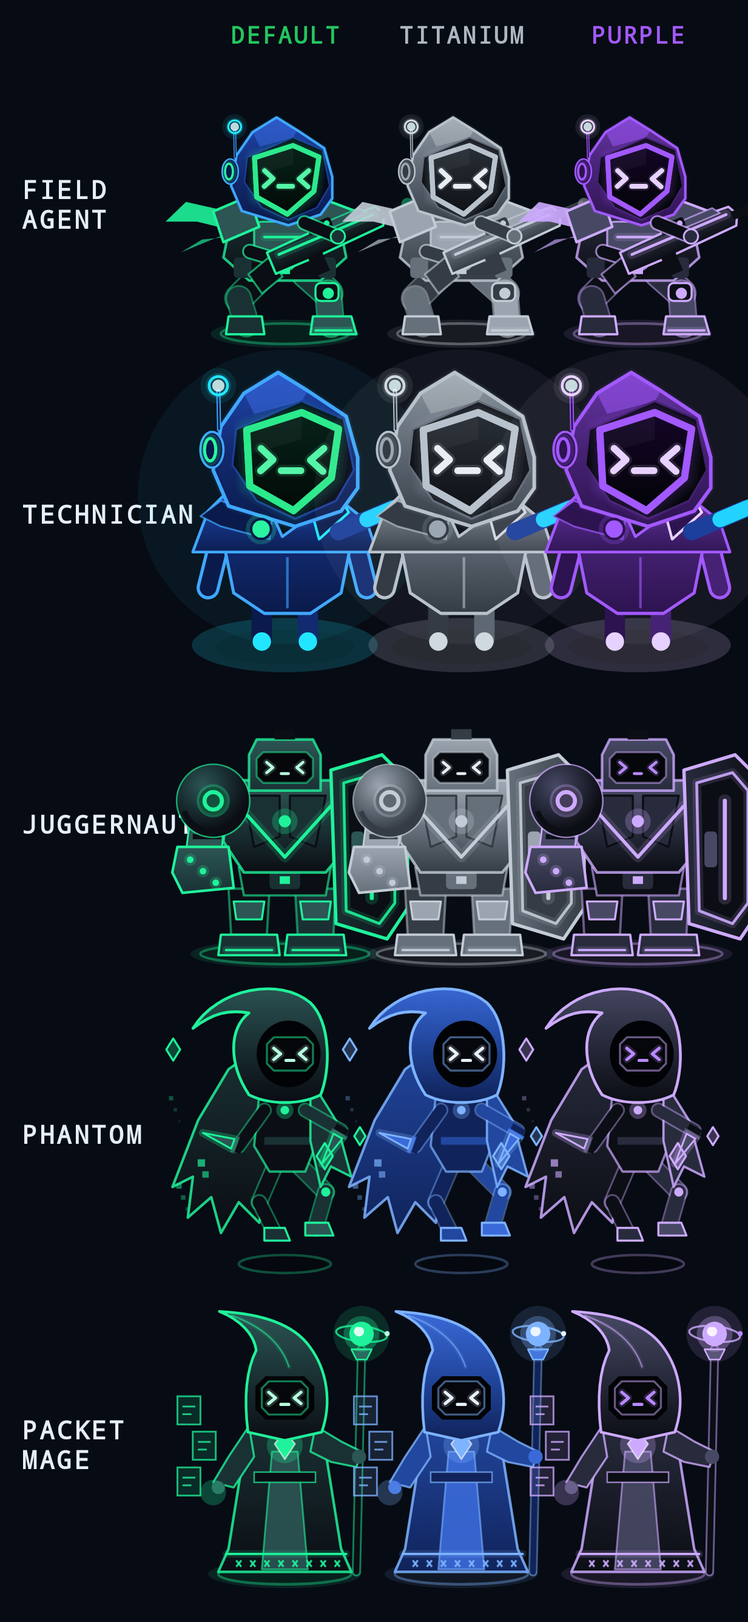
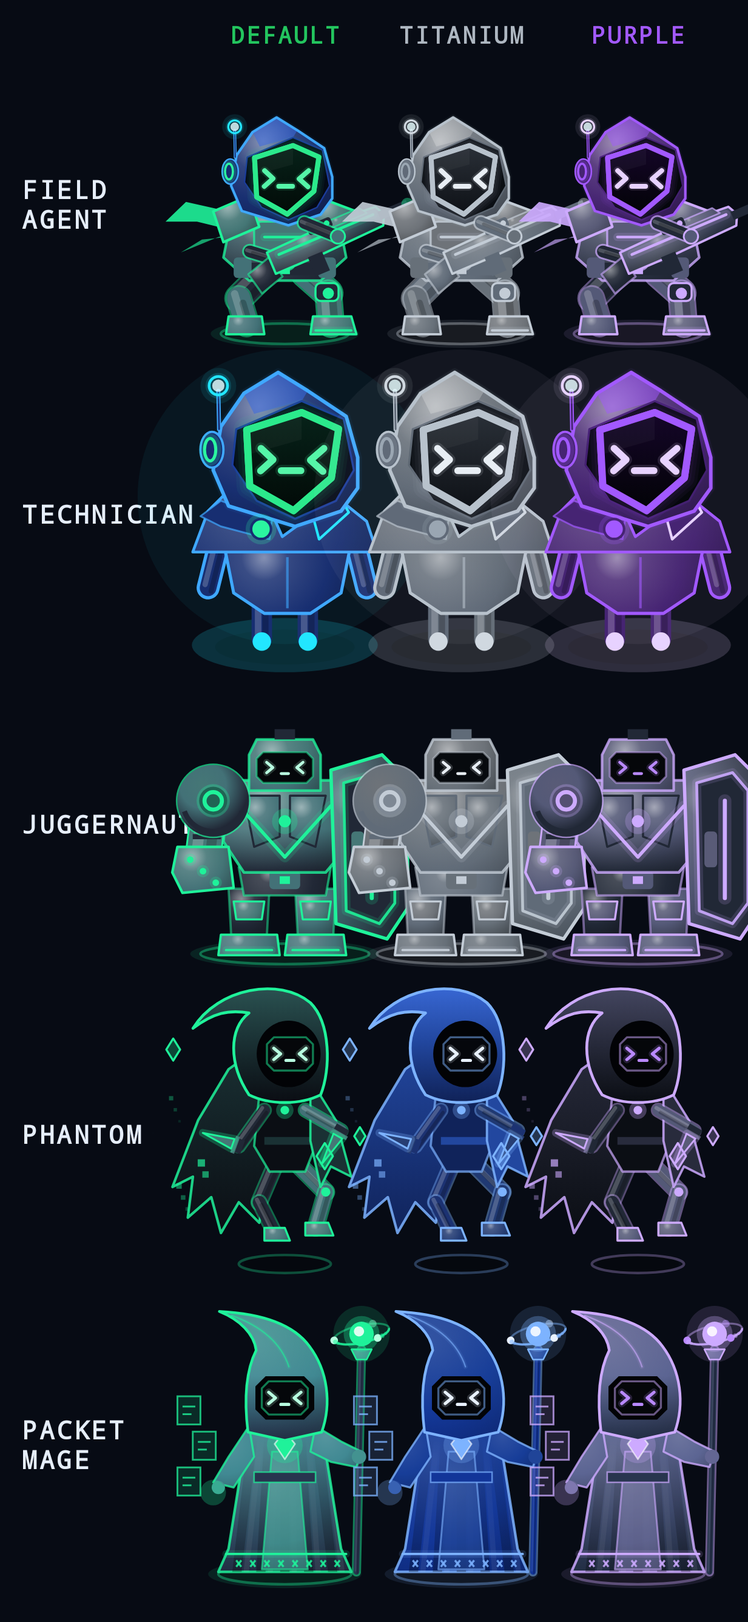
0.44.0: operator redesign in game (pets' shading on the real figures)
- FigureShade: lifted plate colours, rounded light + highlight per panel, limb highlights.
- Packet Mage robe matte with folds; Phantom hood and cape keep the original look.
- Applied to every class, skin and creator option, the Technician hero and the Field Agent helmet.

Claude-Session: https://claude.ai/code/session_01J4fYSi9rfQR62SLnfyrDCN

diff --git a/app/src/main/java/com/cyberoperative/game/ui/game/ClassFigures.kt b/app/src/main/java/com/cyberoperative/game/ui/game/ClassFigures.kt
@@ -20,6 +20,10 @@ import com.cyberoperative.game.data.OperativeSkins
 import com.cyberoperative.game.ui.common.HeroPalette
 import com.cyberoperative.game.ui.common.OperativeMark
 import com.cyberoperative.game.ui.common.drawHeroHelmet
+import com.cyberoperative.game.ui.common.FigureShade
+import com.cyberoperative.game.ui.common.FigureShade.folds
+import com.cyberoperative.game.ui.common.FigureShade.overlay
+import com.cyberoperative.game.ui.common.FigureShade.tube
 import kotlin.math.abs
 import kotlin.math.atan2
 import kotlin.math.cos
@@ -43,13 +47,25 @@ internal object ClassFigures {
     class Look(
         val plateLight: Color, val plateMid: Color, val plateDark: Color,
         val trim: Color, val face: Color, val visor: Color, val hero: HeroPalette
-    )
+    ) {
+        /** The 0.44.0 redesign's richer plate tones ([FigureShade.lift]); trim, face and visor unchanged. */
+        fun lifted(matte: Boolean = false) = Look(
+            FigureShade.lift(plateLight, matte), FigureShade.lift(plateMid, matte), FigureShade.lift(plateDark, matte),
+            trim, face, visor, hero
+        )
+    }
+
+    /** The Packet Mage's robe is cloth (owner, 0.44.0): matte light, no highlight. */
+    private var matte = false
 
     private fun mix(a: Color, b: Color, t: Float) =
         Color(a.red + (b.red - a.red) * t, a.green + (b.green - a.green) * t, a.blue + (b.blue - a.blue) * t, 1f)
 
     /** [cobaltTitanium]: PHANTOM and PACKET MAGE wear TITANIUM as cobalt blue (owner, 2026-10-11). */
-    fun look(skin: OperativeSkin, time: Float, cobaltTitanium: Boolean = false): Look {
+    fun look(skin: OperativeSkin, time: Float, cobaltTitanium: Boolean = false): Look = rawLook(skin, time, cobaltTitanium).lifted(matte)
+
+    /** The original flat colours (the Phantom's hood and cape keep them, owner 0.44.0). */
+    fun rawLook(skin: OperativeSkin, time: Float, cobaltTitanium: Boolean = false): Look {
         val c = OperativeMark.colors(skin, time)
         if (skin.id == OperativeSkins.TITANIUM.id && cobaltTitanium) {
             return Look(
@@ -183,10 +199,23 @@ internal object ClassFigures {
 
     private fun DrawScope.fillStroke(p: Path, fill: Color, edge: Color, w: Float = 1f) {
         drawPath(p, fill)
+        overlay(p, matte)
         drawPath(p, edge, style = Stroke(w, join = StrokeJoin.Round))
     }
 
     private fun DrawScope.fillStroke(p: Path, fill: Brush, edge: Color, w: Float = 1f) {
+        drawPath(p, fill)
+        overlay(p, matte)
+        drawPath(p, edge, style = Stroke(w, join = StrokeJoin.Round))
+    }
+
+    /** No shading: the Phantom's hood and cape as they were. */
+    private fun DrawScope.flatStroke(p: Path, fill: Brush, edge: Color, w: Float = 1f) {
+        drawPath(p, fill)
+        drawPath(p, edge, style = Stroke(w, join = StrokeJoin.Round))
+    }
+
+    private fun DrawScope.flatStroke(p: Path, fill: Color, edge: Color, w: Float = 1f) {
         drawPath(p, fill)
         drawPath(p, edge, style = Stroke(w, join = StrokeJoin.Round))
     }
@@ -205,6 +234,7 @@ internal object ClassFigures {
     private fun DrawScope.limb(a: Offset, b: Offset, w: Float, c: Color, edge: Color) {
         drawLine(edge, a, b, w + 1.4f, StrokeCap.Round)
         drawLine(c, a, b, w, StrokeCap.Round)
+        tube(a, b, w, matte)
     }
 
     /** Black octagon visor with the >_< face. */
@@ -395,6 +425,7 @@ internal object ClassFigures {
     fun DrawScope.phantom(skin: OperativeSkin, x: Float, foot: Float, u: Float, facing: Float, moving: Boolean, time: Float, alpha: Float) {
         val dir = if (cos(facing) < 0f) -1f else 1f
         val l = look(skin, time, cobaltTitanium = true)
+        val l0 = rawLook(skin, time, cobaltTitanium = true)
         val pulse = 0.8f + 0.2f * sin(time * 2.2f)
         val hover = 5f + sin(time * 2.6f) * 1.6f
         place(x, foot, u, dir, alpha) {
@@ -405,7 +436,7 @@ internal object ClassFigures {
                 // Back of the cloak: a big tattered sweep trailing behind.
                 val back = poly(44f, 36f, 30f, 46f, 16f - flow, 66f, 6f - flow, 92f, 14f - flow, 88f, 12f - flow, 104f, 22f - flow * 0.6f, 96f,
                     26f - flow * 0.5f, 110f, 34f, 98f, 42f, 106f, 46f, 88f, 64f, 52f)
-                fillStroke(back, Brush.verticalGradient(listOf(l.plateMid, l.plateDark), startY = 36f, endY = 110f), l.trim.copy(alpha = 0.85f), 1f)
+                flatStroke(back, Brush.verticalGradient(listOf(l0.plateMid, l0.plateDark), startY = 36f, endY = 110f), l.trim.copy(alpha = 0.85f), 1f)
                 // Dissolving pixels off the trailing edge.
                 for (i in 0 until 9) {
                     val ph = (time * 0.45f + i * 0.137f) % 1f
@@ -423,12 +454,12 @@ internal object ClassFigures {
                 drawCircle(l.trim, 1.8f, Offset(68f, 94f))
                 fillStroke(poly(60f, 106f, 69f, 106f, 71f, 111f, 60f, 111f), l.plateLight, l.trim, 0.8f)
                 // Torso: a fitted dark suit with a glowing clasp.
-                fillStroke(poly(42f, 56f, 62f, 56f, 64f, 76f, 60f, 86f, 46f, 86f, 40f, 76f), l.plateDark, l.trim.copy(alpha = 0.7f), 0.9f)
-                drawLine(l.plateMid, Offset(44f, 74f), Offset(62f, 74f), 3f)
+                flatStroke(poly(42f, 56f, 62f, 56f, 64f, 76f, 60f, 86f, 46f, 86f, 40f, 76f), l0.plateDark, l.trim.copy(alpha = 0.7f), 0.9f)
+                drawLine(l0.plateMid, Offset(44f, 74f), Offset(62f, 74f), 3f)
                 drawCircle(l.trim.copy(alpha = 0.35f * pulse), 3.4f, Offset(52f, 62f))
                 drawCircle(l.trim, 1.7f, Offset(52f, 62f))
                 // Front cloak panel over the shoulder.
-                fillStroke(poly(62f, 50f, 72f, 66f, 78f, 88f, 70f, 84f, 66f, 92f, 62f, 74f), l.plateMid, l.trim.copy(alpha = 0.85f), 0.9f)
+                flatStroke(poly(62f, 50f, 72f, 66f, 78f, 88f, 70f, 84f, 66f, 92f, 62f, 74f), l0.plateMid, l.trim.copy(alpha = 0.85f), 0.9f)
                 // Daggers: one low behind, one forward.
                 limb(Offset(44f, 62f), Offset(34f, 76f), 4.5f, l.plateDark, l.trim.copy(alpha = 0.4f))
                 dagger(34f, 76f, 200f, l, pulse)
@@ -443,7 +474,7 @@ internal object ClassFigures {
                 path.cubicTo(70f, 28f, 70f, 46f, 66f, 56f)
                 path.cubicTo(58f, 60f, 46f, 60f, 38f, 56f)
                 path.close()
-                fillStroke(path, Brush.verticalGradient(listOf(l.plateLight, l.plateMid, l.plateDark), startY = 12f, endY = 58f), l.trim, 1.1f)
+                flatStroke(path, Brush.verticalGradient(listOf(l0.plateLight, l0.plateMid, l0.plateDark), startY = 12f, endY = 58f), l.trim, 1.1f)
                 drawOval(Color(0xFF020306), Offset(41f, 27f), Size(25f, 26f))
                 visorFace(54f, 40f, 18f, 13f, l, pulse)
             }
@@ -479,6 +510,11 @@ internal object ClassFigures {
         val dir = if (cos(facing) < 0f) -1f else 1f
         val walk = if (moving) sin(time * 10f) else 0f
         val bob = if (moving) abs(sin(time * 10f)) * 1.2f else sin(time * 1.8f) * 0.5f
+        matte = true
+        try { mageBody(skin, x, foot, u, facing, moving, time, alpha, dir, walk, bob) } finally { matte = false }
+    }
+
+    private fun DrawScope.mageBody(skin: OperativeSkin, x: Float, foot: Float, u: Float, facing: Float, moving: Boolean, time: Float, alpha: Float, dir: Float, walk: Float, bob: Float) {
         val l = look(skin, time, cobaltTitanium = true)
         val pulse = 0.8f + 0.2f * sin(time * 2.2f)
         place(x, foot, u, dir, alpha) {
@@ -497,6 +533,7 @@ internal object ClassFigures {
                 // Robe: long, flared, with a lighter front panel.
                 val robe = poly(38f, 58f, 66f, 58f, 74f, 108f, 78f, 117f, 26f + sway, 117f, 30f + sway, 108f)
                 fillStroke(robe, Brush.verticalGradient(listOf(l.plateMid, l.plateDark), startY = 58f, endY = 117f), l.trim.copy(alpha = 0.85f), 1f)
+                folds(poly(38f, 58f, 66f, 58f, 74f, 108f, 78f, 117f, 26f + sway, 117f, 30f + sway, 108f), 64f, 117f)
                 fillStroke(poly(47f, 70f, 57f, 70f, 61f, 116f, 43f + sway * 0.5f, 116f), l.plateLight.copy(alpha = 0.9f), l.trim.copy(alpha = 0.6f), 0.7f)
                 // Hem band of glowing runes.
                 neon(Offset(29f + sway, 110f), Offset(76f, 110f), l.trim, 0.9f, pulse)

diff --git a/app/src/main/java/com/cyberoperative/game/ui/common/FigureShade.kt b/app/src/main/java/com/cyberoperative/game/ui/common/FigureShade.kt
@@ -1,0 +1,82 @@
+package com.cyberoperative.game.ui.common
+
+import androidx.compose.ui.geometry.Offset
+import androidx.compose.ui.graphics.Brush
+import androidx.compose.ui.graphics.Color
+import androidx.compose.ui.graphics.Path
+import androidx.compose.ui.graphics.StrokeCap
+import androidx.compose.ui.graphics.drawscope.DrawScope
+import androidx.compose.ui.graphics.drawscope.clipPath
+import kotlin.math.max
+import kotlin.math.min
+
+/**
+ * The operator redesign (owner, 0.44.0: "more closely trace the original operator design then
+ * add in the nice shading and color"; approved from docs/operators_concept/v2_*.png).
+ *
+ * The figures keep their exact shapes; on top:
+ *  - [lift]: every plate colour becomes a richer, slightly muted tone of itself (dark armour a
+ *    deep tint, coloured panels a mid-tone), like tools/operators/shade_operators.py;
+ *  - [overlay]: each panel is lit as a rounded volume from the top left, with a soft highlight;
+ *  - [matte] (the Packet Mage's robe): cloth, so softer light, no highlight, folds.
+ * Neon trim, faces and visors are untouched.
+ */
+object FigureShade {
+    /** Off restores the old flat look (tests / comparisons). */
+    @Volatile var enabled = true
+
+    fun lift(c: Color, matte: Boolean = false): Color {
+        if (!enabled) return c
+        val v = max(c.red, max(c.green, c.blue))
+        if (v < 0.005f) return c
+        val target = if (v < 0.12f) (if (matte) 0.3f else 0.22f) else (if (matte) 0.56f else 0.48f)
+        val k = target / v
+        val r = c.red * k; val g = c.green * k; val b = c.blue * k
+        val grey = (r + g + b) / 3f
+        val s = if (matte) 1.15f else 0.85f
+        fun ch(x: Float) = (grey + (x - grey) * s).coerceIn(0f, 1f)
+        return Color(ch(r), ch(g), ch(b), c.alpha)
+    }
+
+    /** Rounded light and shade over a panel already filled along [p] (in the panel's own space). */
+    fun DrawScope.overlay(p: Path, matte: Boolean = false) {
+        if (!enabled) return
+        val b = p.getBounds()
+        if (b.width <= 0.5f || b.height <= 0.5f) return
+        val c = Offset(b.left + b.width * 0.3f, b.top + b.height * 0.25f)
+        val r = max(b.width, b.height) * 1.05f
+        drawPath(p, SafeBrush.radialGradient(
+            listOf(Color.White.copy(alpha = if (matte) 0.1f else 0.2f), Color.Transparent, Color.Black.copy(alpha = if (matte) 0.32f else 0.48f)), c, r))
+        if (!matte) clipPath(p) {
+            val hc = Offset(b.left + b.width * 0.32f, b.top + b.height * 0.22f)
+            val hr = min(b.width, b.height) * 0.32f
+            drawCircle(SafeBrush.radialGradient(listOf(Color.White.copy(alpha = 0.34f), Color.Transparent), hc, hr), hr, hc)
+        }
+    }
+
+    /** A soft highlight along a round limb from [a] to [b] of width [w]. */
+    fun DrawScope.tube(a: Offset, b: Offset, w: Float, matte: Boolean = false) {
+        if (!enabled) return
+        val o = Offset(-w * 0.18f, -w * 0.2f)
+        drawLine(Color.White.copy(alpha = if (matte) 0.08f else 0.2f), a + o, b + o, w * 0.32f, StrokeCap.Round)
+        drawLine(Color.Black.copy(alpha = 0.22f), a - o, b - o, w * 0.3f, StrokeCap.Round)
+    }
+
+    /** Soft vertical cloth folds inside [p], deepening toward its bottom ([top]..[bottom] in y). */
+    fun DrawScope.folds(p: Path, top: Float, bottom: Float, count: Int = 5) {
+        if (!enabled) return
+        val b = p.getBounds()
+        clipPath(p) {
+            for (i in 0 until count) {
+                val t = (i + 0.5f) / count
+                val x0 = b.left + b.width * (0.2f + 0.6f * t)
+                val x1 = b.left + b.width * (0.05f + 0.9f * t)
+                drawLine(Brush.verticalGradient(listOf(Color.Transparent, Color.Black.copy(alpha = 0.28f)), startY = top, endY = bottom),
+                    Offset(x0, top), Offset(x1, bottom), b.width * 0.07f, StrokeCap.Round)
+                val xl0 = x0 + b.width * 0.06f; val xl1 = x1 + b.width * 0.07f
+                drawLine(Brush.verticalGradient(listOf(Color.Transparent, Color.White.copy(alpha = 0.07f)), startY = top, endY = bottom),
+                    Offset(xl0, top), Offset(xl1, bottom), b.width * 0.04f, StrokeCap.Round)
+            }
+        }
+    }
+}

diff --git a/app/src/main/java/com/cyberoperative/game/ui/common/OperativeEmblem.kt b/app/src/main/java/com/cyberoperative/game/ui/common/OperativeEmblem.kt
@@ -230,6 +230,7 @@ private fun DrawScope.drawHeroShield(p: HeroPalette, face: HeroFace, time: Float
 private fun DrawScope.drawHeroHead(p: HeroPalette, face: HeroFace, time: Float, pulse: Float) {
     glowStroke(hood, p.outline, 0.9f, pulse * 0.7f, layers = 3)
     drawPath(hood, Brush.verticalGradient(listOf(p.hoodTop, p.hoodMid, p.hoodBottom), startY = 11f, endY = 74f))
+    with(FigureShade) { overlay(hood) }
     drawPath(hoodFacet, p.facet)
     drawPath(hood, p.outline, style = Stroke(1.4f, join = StrokeJoin.Round))
     drawPath(hoodOpening, p.opening)
@@ -253,7 +254,7 @@ private fun DrawScope.drawHeroHeadset(p: HeroPalette, time: Float, pulse: Float)
 
 /** The hero's hood, face shield and headset alone (FIELD AGENT helmet), emblem units. */
 fun DrawScope.drawHeroHelmet(palette: HeroPalette, time: Float) {
-    val p = palette.at(time)
+    val p = palette.at(time).shaded()
     val pulse = 0.8f + 0.2f * sin(time * 2.2f)
     drawHeroHead(p, HeroFace.ICON, time, pulse)
     drawHeroHeadset(p, time, pulse)
@@ -267,24 +268,36 @@ private val heroCloak = path(28f, 78f, 78f, 78f, 74f, 98f, 62f, 106f, 44f, 106f,
  * The traced hero standing, in emblem units: foot line at y = 118, centre x = 52.
  * [walk] −1..1 swings the legs. Callers scale/translate it into the world.
  */
+/** The 0.44.0 redesign's richer hood tones on the figure (the menu emblem keeps the flat ones). */
+private fun HeroPalette.shaded(): HeroPalette =
+    if (!FigureShade.enabled) this else copy(hoodTop = FigureShade.lift(hoodTop), hoodMid = FigureShade.lift(hoodMid), hoodBottom = FigureShade.lift(hoodBottom))
+
 fun DrawScope.drawHeroFigure(palette: HeroPalette, face: HeroFace, time: Float, walk: Float) {
-    val p = palette.at(time)
+    val p = palette.at(time).shaded()
     val pulse = 0.8f + 0.2f * sin(time * 2.2f)
     // Legs and boots.
     drawLine(p.hoodBottom, Offset(43f, 102f), Offset(43f - walk * 5f, 116f), 8f, StrokeCap.Round)
     drawLine(p.hoodMid, Offset(61f, 102f), Offset(61f + walk * 5f, 116f), 8f, StrokeCap.Round)
+    with(FigureShade) {
+        tube(Offset(43f, 102f), Offset(43f - walk * 5f, 116f), 8f)
+        tube(Offset(61f, 102f), Offset(61f + walk * 5f, 116f), 8f)
+    }
     drawCircle(p.glow, 3.6f, Offset(43f - walk * 5f, 117f))
     drawCircle(p.glow, 3.6f, Offset(61f + walk * 5f, 117f))
     // Sleeves, then the robe-like cloak.
     drawLine(p.outline, Offset(27f, 76f), Offset(22f, 96f), 9f, StrokeCap.Round)
     drawLine(p.hoodBottom, Offset(27f, 76f), Offset(22f, 96f), 6.5f, StrokeCap.Round)
+    with(FigureShade) { tube(Offset(27f, 76f), Offset(22f, 96f), 6.5f) }
     drawLine(p.outline, Offset(79f, 76f), Offset(84f, 96f), 9f, StrokeCap.Round)
     drawLine(p.hoodMid, Offset(79f, 76f), Offset(84f, 96f), 6.5f, StrokeCap.Round)
+    with(FigureShade) { tube(Offset(79f, 76f), Offset(84f, 96f), 6.5f) }
     drawPath(heroCloak, Brush.verticalGradient(listOf(p.hoodMid, p.hoodBottom), startY = 78f, endY = 106f))
+    with(FigureShade) { overlay(heroCloak) }
     drawPath(heroCloak, p.outline, style = Stroke(1.2f, join = StrokeJoin.Round))
     drawLine(p.outline.copy(alpha = 0.6f), Offset(53f, 84f), Offset(53f, 104f), 1f)
     // Shoulders, strap, collar tab and button (from the icon).
     drawPath(heroShoulders, Brush.verticalGradient(listOf(p.hoodTop, p.hoodBottom), startY = 60f, endY = 84f))
+    with(FigureShade) { overlay(heroShoulders) }
     drawPath(heroShoulders, p.outline, style = Stroke(1.1f, join = StrokeJoin.Round))
     drawPath(strap, p.hoodBottom)
     drawPath(strap, p.outline.copy(alpha = 0.7f), style = Stroke(0.7f, join = StrokeJoin.Round))

diff --git a/app/src/test/java/com/cyberoperative/game/OperatorRawRenders.kt b/app/src/test/java/com/cyberoperative/game/OperatorRawRenders.kt
@@ -29,6 +29,8 @@ import java.io.File
 class OperatorRawRenders {
     private val out = File(System.getProperty("cyberop.previewDir") ?: "build/screens", "../operators_concept/raw")
 
+    private var dir = out
+
     private fun render(name: String, style: BodyStyle, skin: com.cyberoperative.game.data.OperativeSkin, look: CharacterLook? = null) {
         val px = 480
         val bmp = Bitmap.createBitmap(px, px, Bitmap.Config.ARGB_8888)
@@ -37,12 +39,22 @@ class OperatorRawRenders {
             val u = px / 80f * 0.92f
             with(OperativeFigures) { drawFigure(style, skin, px / 2f, px * 0.9f, u, -0.4f, false, 0f, look = look) }
         }
-        out.mkdirs()
-        File(out, "$name.png").outputStream().use { bmp.compress(Bitmap.CompressFormat.PNG, 100, it) }
+        dir.mkdirs()
+        File(dir, "$name.png").outputStream().use { bmp.compress(Bitmap.CompressFormat.PNG, 100, it) }
     }
 
     @Test fun raw() {
         assumeTrue(System.getProperty("cyberop.renderPreviews") == "true")
+        // raw/: the flat originals (input for tools/operators/shade_operators.py); ingame/: the shipped look.
+        for (shaded in listOf(false, true)) {
+            com.cyberoperative.game.ui.common.FigureShade.enabled = shaded
+            dir = if (shaded) File(out.parentFile, "ingame") else out
+            renderAll()
+        }
+        com.cyberoperative.game.ui.common.FigureShade.enabled = true
+    }
+
+    private fun renderAll() {
         val styles = listOf("agent" to BodyStyle.AGENT, "technician" to BodyStyle.NEON, "juggernaut" to BodyStyle.MECH, "phantom" to BodyStyle.RUNNER, "mage" to BodyStyle.MAGE)
         val skins = listOf("default" to OperativeSkins.DEFAULT, "titanium" to OperativeSkins.TITANIUM, "purple" to OperativeSkins.PURPLE, "gold" to OperativeSkins.GOLD) +
             OperativeSkins.all.filter { it.id in setOf("red_hat", "ids", "blue_hat") }.map { it.id to it }

diff --git a/README.md b/README.md
@@ -16,7 +16,7 @@ Play **co-op** with a friend (friend codes, invites, live two-player runs; see `
 
 ## Project status
 
-`0.43.1` — Technician without the small blaster; operator redesign concept; `0.43.0` instant hatch with € too (highest OP level × ◇ price × 100); `0.42.0` INSTANT HATCH for ◇ (4 × ⌈rarity × minutes ÷ 6⌉); `0.41.0` 500 animated ENCRYPTED pets in 14 colourways (orbiting orbs, gears, rings, propellers…); `0.40.0` 500 new GLITCHED…ENCRYPTED pets with their own eggs; `0.39.1` tougher NORMAL past level 100 (HARD rises with it), HARD Idle Runs (no GLITCHED/ENCRYPTED from idle); `0.39.0` GLITCHED LEGENDARY and ENCRYPTED gear + chips, FORGED…ABYSSAL chips (22 new chips: shoot while moving, heal per hit, auto/full-heal potions, ×2 damage…), Golden+ gear +30%, easier HARD past World 2 with 2 chips a room, bosses drop 3 HP potions, pet abilities, hatch notification; `0.38.0` COMPANIONS: eggs (drops + ◇ store), incubator with real-time hatching that ignores clock changes, Inferno Stones (−15% each, up to −90%), 1,005 pets that follow and fight; `0.37.6` 3 × 1 Idle Run widget; `0.37.5` five new NEON tracks on any level (never on bosses, never altered); `0.37.4` Idle Runs pay 40% € (XP stays 50%) and 20% less gear; `0.37.3` Idle Runs keep only EPIC and better gear; `0.37.2` Idle Runs last about twice as long again; `0.37.1` easier Idle Runs (they run about twice as long); `0.37.0` IDLE RUNS: your operator fights on with the game closed (50% € and XP), with a 2 × 3 Android home-screen widget and a notification when it falls; Boss Expansion bosses get moving parts (mesh rigs); `0.36.4` co-op € fully separate (your kills, your bags, your own payouts; trade to share); `0.36.3` one € total in co-op too; TRADE only shows when usable; short numbers (398k, 3.7m) when they don't fit; `0.36.2` the classic bosses get moving parts too (mesh rigs); `0.36.1` INFERNO bosses get real moving parts (deformable mesh rigs); `0.36.0` INFERNO bosses redrawn from the owner's pack paintings with animation rigs; recorded INFERNO drop sounds; `0.35.1` each INFERNO boss has its own colour; `0.35.0` sell backpack items; co-op TRADE; 15 INFERNO-only bosses (Packs Alpha/Beta/Gamma); Shadow Step knives, smarter Firestorm, wall-piercing Arcane Nova; signature perks on Legendary+ gear; `0.34.0` INFERNO levels 1–500 (curve A, level stepper); one Data Vault shared by every character (main-menu DATA VAULT); ABYSSAL in ~1 shop in 100; `0.33.0` four INFERNO equipment rarities (Forged, Voltaic, Celestial, Abyssal) with their own art, animated cards, auras and base × INFERNO level drop odds; `0.32.0` € carries over between runs; 4 equipment pieces (PURPLE+) in the shop; INFERNO soundtrack; `0.31.0` co-op shared XP and smoother partners; PC exit button, 2× HUD, big ability bar, keybinds in pause; `0.30.5` XP bar reads OC Lv after level 60; `0.30.4` fixed a fake left EXIT door; Circuit Hydra loses 10% HP per head destroyed; `0.30.3` white XP bar in the HUD; rooms follow the screen orientation; `0.30.2` level XP ×10 (1–60 is 29.2M XP; saves keep their level); `0.30.1` fixed the keyboard closing on the character name and the Packet Mage face parts; `0.30.0` Data Vault update phase 2: gear loot (the owner's art, 8 rarities, beams + sheen), CHARACTER / GEAR / DATA VAULT screens with drag-to-equip, character creator and named characters, in-game INVENTORY; `0.29.0` INFERNO I–X difficulties with a hell look; `0.28.0` Data Vault update phase 1: OP Lv 1–60 + Overclock, Diablo armor, no Firewall, € wipe; `0.27.0` world server: MOVE TO NEXT WORLD (co-op 1/2 ready); `0.26.3` fix: no way on to the next world after the shop; `0.26.2` slim Android landscape HUD; `0.26.1` PC direct-IP co-op (no Steam needed); `0.26.0` co-op shop (a shop each, in and out together); `0.25.9` no HP/Firewall regen over time, MAP corner kept clear of touch buttons; `0.25.8` compact shop window; `0.25.7` room slide follows the door direction; `0.25.6` ALL COLOUR SKINS pack ◇1400; `0.25.5` skins renamed by colour; `0.25.4` fixed the crash on START; crash reporter; PURPLE/GLITCHED campaign skins, GOLD and NEON (◇1000) skins, PROXY SHOT removed; boss loot sprays out; per-player co-op loot; World-map CAMPAIGN (15 worlds); Steam build (PC + Steam Deck, landscape) added in `desktop/`; Boss Expansion Vol. 1 under way; 0.16.0 balance pass (pooled mastery, bigger Packet Flood) (see `DEVELOPMENT_STATE.md` and `docs/BOSS_EXPANSION_LOG.md`).
+`0.44.0` — operator redesign: the same figures with the pets' shading (matte cloth Packet Mage, Phantom hood and cape as before); `0.43.1` Technician without the small blaster; operator redesign concept; `0.43.0` instant hatch with € too (highest OP level × ◇ price × 100); `0.42.0` INSTANT HATCH for ◇ (4 × ⌈rarity × minutes ÷ 6⌉); `0.41.0` 500 animated ENCRYPTED pets in 14 colourways (orbiting orbs, gears, rings, propellers…); `0.40.0` 500 new GLITCHED…ENCRYPTED pets with their own eggs; `0.39.1` tougher NORMAL past level 100 (HARD rises with it), HARD Idle Runs (no GLITCHED/ENCRYPTED from idle); `0.39.0` GLITCHED LEGENDARY and ENCRYPTED gear + chips, FORGED…ABYSSAL chips (22 new chips: shoot while moving, heal per hit, auto/full-heal potions, ×2 damage…), Golden+ gear +30%, easier HARD past World 2 with 2 chips a room, bosses drop 3 HP potions, pet abilities, hatch notification; `0.38.0` COMPANIONS: eggs (drops + ◇ store), incubator with real-time hatching that ignores clock changes, Inferno Stones (−15% each, up to −90%), 1,005 pets that follow and fight; `0.37.6` 3 × 1 Idle Run widget; `0.37.5` five new NEON tracks on any level (never on bosses, never altered); `0.37.4` Idle Runs pay 40% € (XP stays 50%) and 20% less gear; `0.37.3` Idle Runs keep only EPIC and better gear; `0.37.2` Idle Runs last about twice as long again; `0.37.1` easier Idle Runs (they run about twice as long); `0.37.0` IDLE RUNS: your operator fights on with the game closed (50% € and XP), with a 2 × 3 Android home-screen widget and a notification when it falls; Boss Expansion bosses get moving parts (mesh rigs); `0.36.4` co-op € fully separate (your kills, your bags, your own payouts; trade to share); `0.36.3` one € total in co-op too; TRADE only shows when usable; short numbers (398k, 3.7m) when they don't fit; `0.36.2` the classic bosses get moving parts too (mesh rigs); `0.36.1` INFERNO bosses get real moving parts (deformable mesh rigs); `0.36.0` INFERNO bosses redrawn from the owner's pack paintings with animation rigs; recorded INFERNO drop sounds; `0.35.1` each INFERNO boss has its own colour; `0.35.0` sell backpack items; co-op TRADE; 15 INFERNO-only bosses (Packs Alpha/Beta/Gamma); Shadow Step knives, smarter Firestorm, wall-piercing Arcane Nova; signature perks on Legendary+ gear; `0.34.0` INFERNO levels 1–500 (curve A, level stepper); one Data Vault shared by every character (main-menu DATA VAULT); ABYSSAL in ~1 shop in 100; `0.33.0` four INFERNO equipment rarities (Forged, Voltaic, Celestial, Abyssal) with their own art, animated cards, auras and base × INFERNO level drop odds; `0.32.0` € carries over between runs; 4 equipment pieces (PURPLE+) in the shop; INFERNO soundtrack; `0.31.0` co-op shared XP and smoother partners; PC exit button, 2× HUD, big ability bar, keybinds in pause; `0.30.5` XP bar reads OC Lv after level 60; `0.30.4` fixed a fake left EXIT door; Circuit Hydra loses 10% HP per head destroyed; `0.30.3` white XP bar in the HUD; rooms follow the screen orientation; `0.30.2` level XP ×10 (1–60 is 29.2M XP; saves keep their level); `0.30.1` fixed the keyboard closing on the character name and the Packet Mage face parts; `0.30.0` Data Vault update phase 2: gear loot (the owner's art, 8 rarities, beams + sheen), CHARACTER / GEAR / DATA VAULT screens with drag-to-equip, character creator and named characters, in-game INVENTORY; `0.29.0` INFERNO I–X difficulties with a hell look; `0.28.0` Data Vault update phase 1: OP Lv 1–60 + Overclock, Diablo armor, no Firewall, € wipe; `0.27.0` world server: MOVE TO NEXT WORLD (co-op 1/2 ready); `0.26.3` fix: no way on to the next world after the shop; `0.26.2` slim Android landscape HUD; `0.26.1` PC direct-IP co-op (no Steam needed); `0.26.0` co-op shop (a shop each, in and out together); `0.25.9` no HP/Firewall regen over time, MAP corner kept clear of touch buttons; `0.25.8` compact shop window; `0.25.7` room slide follows the door direction; `0.25.6` ALL COLOUR SKINS pack ◇1400; `0.25.5` skins renamed by colour; `0.25.4` fixed the crash on START; crash reporter; PURPLE/GLITCHED campaign skins, GOLD and NEON (◇1000) skins, PROXY SHOT removed; boss loot sprays out; per-player co-op loot; World-map CAMPAIGN (15 worlds); Steam build (PC + Steam Deck, landscape) added in `desktop/`; Boss Expansion Vol. 1 under way; 0.16.0 balance pass (pooled mastery, bigger Packet Flood) (see `DEVELOPMENT_STATE.md` and `docs/BOSS_EXPANSION_LOG.md`).
 
 | | |
 |---|---|

diff --git a/CHANGELOG.md b/CHANGELOG.md
@@ -1,5 +1,21 @@
 # Changelog
 
+## 0.44.0 (versionCode 127) — 2026-10-17 · Operator redesign
+### Changed (owner-approved redesign)
+- **Every operator gets the new look.** Each class keeps its exact shapes, animations and skins, and gains the pets' shading:
+  - armour panels are filled with a richer, slightly muted tone of the skin colour;
+  - each panel is lit as a rounded volume from the top left, with a soft highlight;
+  - limbs have a highlight and shadow along them.
+- **Packet Mage:** the robe is matte cloth with soft folds that deepen toward the hem. There's no metal shine on it.
+- **Phantom:** the hood and cape keep their original look.
+- Neon trim, the >_< faces and the visors are unchanged.
+- The look applies everywhere the operators appear: runs, co-op, the character screens, the creator, the class picker and the shopkeeper.
+### Technical
+- New `ui/common/FigureShade` (`lift` / `overlay` / `tube` / `folds`).
+- `ClassFigures.look` now returns the lifted plates, and `rawLook` the original ones.
+- The hero figure and helmet are shaded too. The menu emblem keeps its flat look.
+- `OperatorRawRenders` writes both `raw/` (flat) and `ingame/` renders.
+
 ## 0.43.1 (versionCode 125) — 2026-10-17 · Technician without the blaster
 ### Changed (owner)
 - The TECHNICIAN no longer holds the small blaster. The Plasma Beam arm cannon still shows when that power-up is taken.

diff --git a/DEVELOPMENT_STATE.md b/DEVELOPMENT_STATE.md
@@ -6,7 +6,7 @@ _Read this first in every new session, then README, GAME_DESIGN, BACKLOG, CHANGE
 
 | | |
 |---|---|
-| Version | 0.43.1 (versionCode 125) |
+| Version | 0.44.0 (versionCode 127) |
 | Milestone | M1 vertical slice ✅ · M2 first boss & systems ✅ (pending device playtest) |
 | Last completed | 0.9.5 fullscreen HUD redesign (ui/game/GameHud.kt, buff chips in UpgradeBar.kt) |
 | Current task | Waiting on owner: body design (CO-094) and Power-Up Board picks (CO-090) |
@@ -14,6 +14,11 @@ _Read this first in every new session, then README, GAME_DESIGN, BACKLOG, CHANGE
 | Test status | `./gradlew :app:testDebugUnitTest` ✅ (32 tests + 15 opt-in screenshot renders) |
 
 ## Known issues / caveats
+- **0.44.0 operator redesign:**
+  - `FigureShade` is applied in `ClassFigures.fillStroke`, `limb`, the lifted `look()`, and the hero figure and helmet in `OperativeEmblem`.
+  - The Phantom's hood, cape and torso use `rawLook` + `flatStroke`. The Mage draws with `matte` set and has robe `folds`.
+  - `FigureShade.enabled = false` brings back the flat look.
+  - The concept tools live in `tools/operators/`, and the approved sheets are `docs/operators_concept/v2_*.png`.
 - **0.43.0 € hatch:**
   - Price: `Pets.instantHatchEuros` = `Incubators.accountOpLevel` (max over every character) × ◇ price × `HATCH_EURO_MUL` (100).
   - Action: `Incubators.instantHatchWithEuros`.
